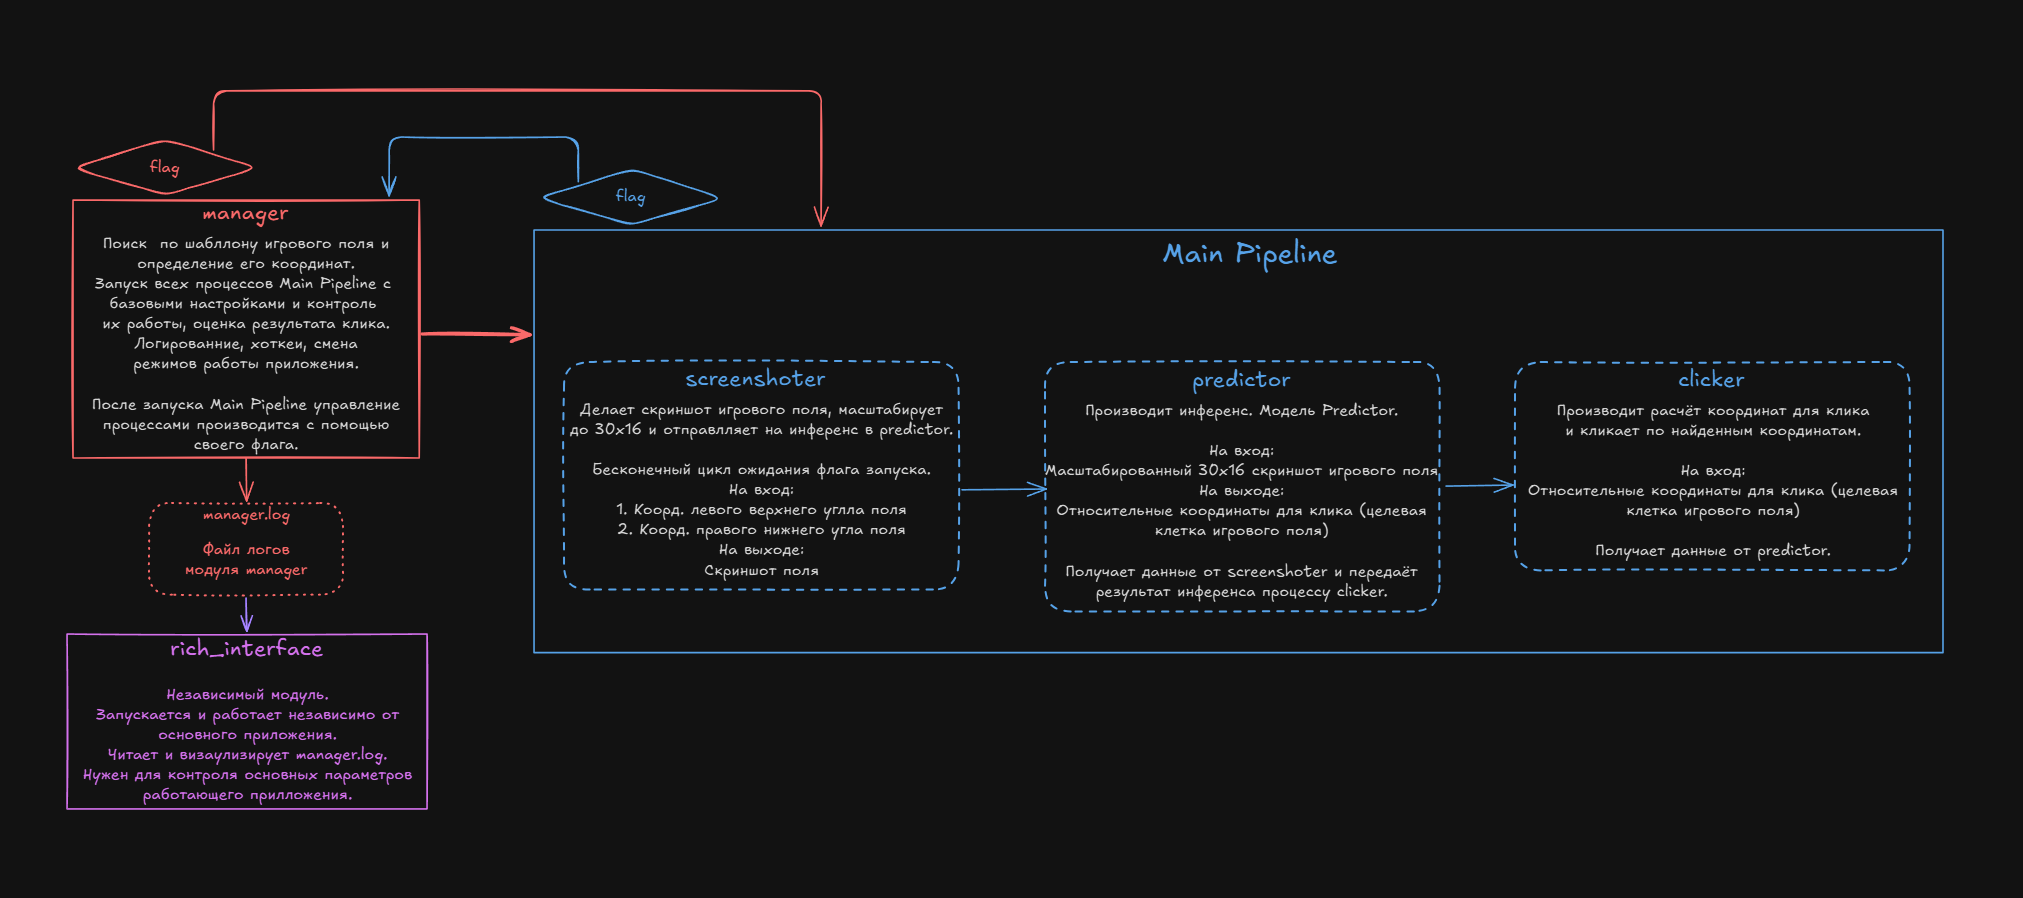
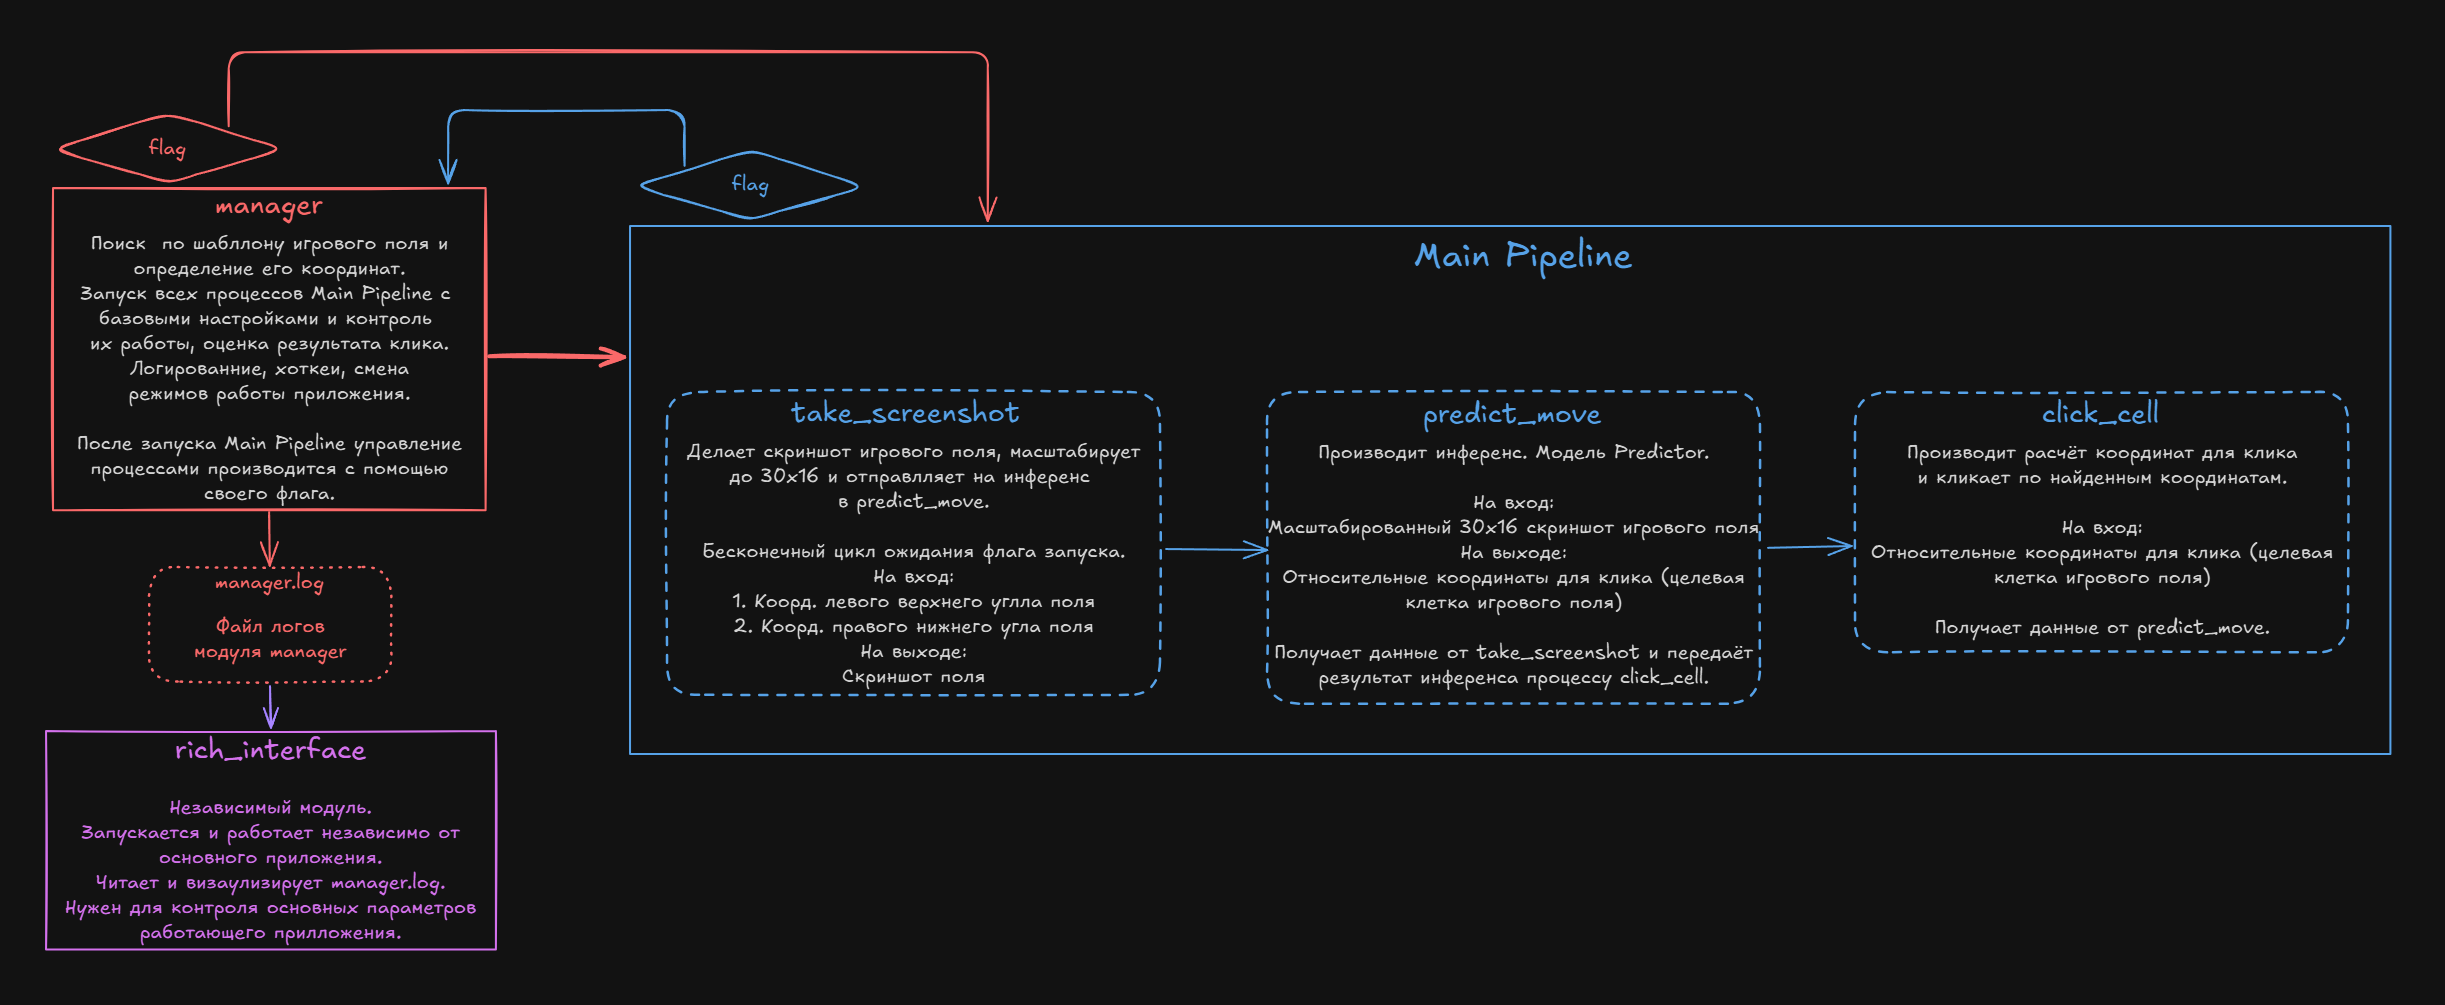
Make function names into verbs

diff --git a/src/minesweeper_ai/main_pipeline.py b/src/minesweeper_ai/main_pipeline.py
@@ -1,5 +1,5 @@
 """
-Functions screenshoter() and predictor() are currently stubs (to be implemented later).
+Functions take_screenshot() and predict_move() are currently stubs (to be implemented later).
 """
 import logging
 import os
@@ -15,20 +15,20 @@ if os.name == "nt":
     import ctypes
 
 
-def screenshoter(playground: Rectangle) -> None:
+def take_screenshot(playground: Rectangle) -> None:
     """Stub for screenshotting, to be implemented later."""
-    logging.debug("screenshoter() STUB called with %s", playground)
+    logging.debug("take_screenshot() STUB called with %s", playground)
 
 
-def predictor() -> None:
+def predict_move() -> None:
     """Stub for prediction, to be implemented later."""
-    logging.debug("predictor() STUB called")
+    logging.debug("predict_move() STUB called")
 
 
-def clicker(playground: Rectangle) -> tuple[int, int]:
+def click_cell(playground: Rectangle) -> tuple[int, int]:
     """Click at a random point inside the playground."""
     x, y = playground.random_point()
-    logging.info("clicker(): clicking at (%d, %d) inside %s", x, y, playground)
+    logging.info("click_cell(): clicking at (%d, %d) inside %s", x, y, playground)
     if os.name == "nt":
         user32 = ctypes.windll.user32
         user32.SetCursorPos(int(x), int(y))
@@ -39,7 +39,7 @@ def clicker(playground: Rectangle) -> tuple[int, int]:
         time.sleep(0.02)
         user32.mouse_event(MOUSEEVENTF_LEFTUP, 0, 0, 0, 0)
     else:
-        logging.warning("clicker(): non-Windows platform — simulated click only")
+        logging.warning("click_cell(): non-Windows platform — simulated click only")
     return x, y
 
 
@@ -59,9 +59,9 @@ def pipeline_worker(
         while True:
             start_event.wait()
             main_pipeline_flag.set(State.BUSY.value)
-            screenshoter(playground_rectangle)
-            predictor()
-            clicker(playground_rectangle)
+            take_screenshot(playground_rectangle)
+            predict_move()
+            click_cell(playground_rectangle)
             main_pipeline_flag.set(State.IDLE.value)
             start_event.clear()
             time.sleep(process_sleep)
